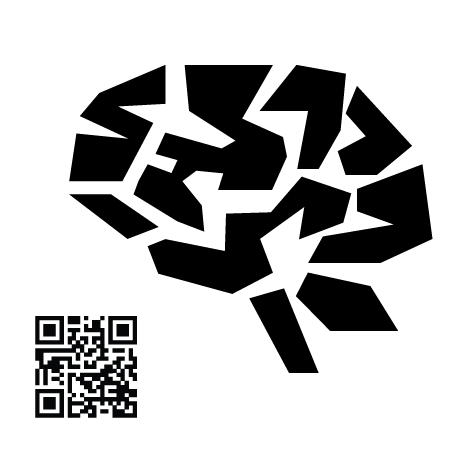
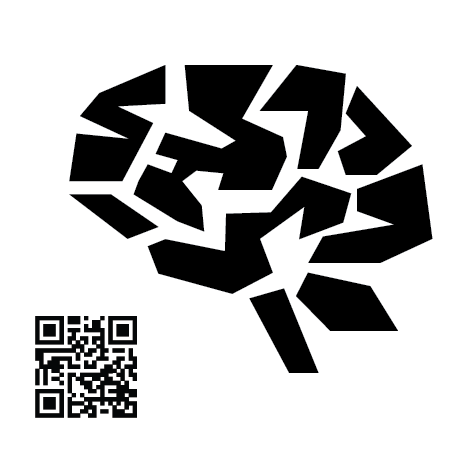
Add white background to marker

Changed region(s): [[0.0933, 0.7156, 0.3111, 0.9333]]

diff --git a/app/armadillo/templates/index.html b/app/armadillo/templates/index.html
@@ -53,7 +53,7 @@
       <a-asset-item id="rh-model" src="/api/neurovault/{{ image_id }}/models/right" crossOrigin="anonymous"></a-asset-item>
       <a-asset-item id="lh-model" src="/api/neurovault/{{ image_id }}/models/left" crossOrigin="anonymous"></a-asset-item>
     </a-assets>
-    <a-marker model-overrider preset='custom' type='pattern' url='https://raw.githubusercontent.com/TimVanMourik/Armadillo/master/app/armadillo/static/img/patt/pattern-marker.patt'>
+    <a-marker model-overrider preset='custom' type='pattern' url="{% static "img/patt/pattern-marker_ratio70.patt" %}">
     <a-collada-model src="#rh-model"  position="0 0 0" scale="0.01 0.01 0.01" rotation="0 180 0">
       <a-animation attribute="rotation" to="0 180 360" dur="5000" easing='linear' repeat="indefinite"></a-animation>
     </a-collada-model>

diff --git a/app/api/views.py b/app/api/views.py
@@ -21,7 +21,7 @@ from .utils import create_qr_from_text, put_qr_on_marker, color_func, fv_scalar_
 
 def qr(request, image=''):
     qr_link = os.path.join(settings.BASE_URL, 'neurovault/'+ image)
-    marker_with_qr = put_qr_on_marker(qr_link, 'staticfiles/img/marker.png')
+    marker_with_qr = put_qr_on_marker(qr_link, 'staticfiles/img/patt/marker_ratio70.png')
     image = ContentFile(base64.b64decode(marker_with_qr), name='temp.jpg')
     return HttpResponse(image, content_type="image/jpeg")
 
